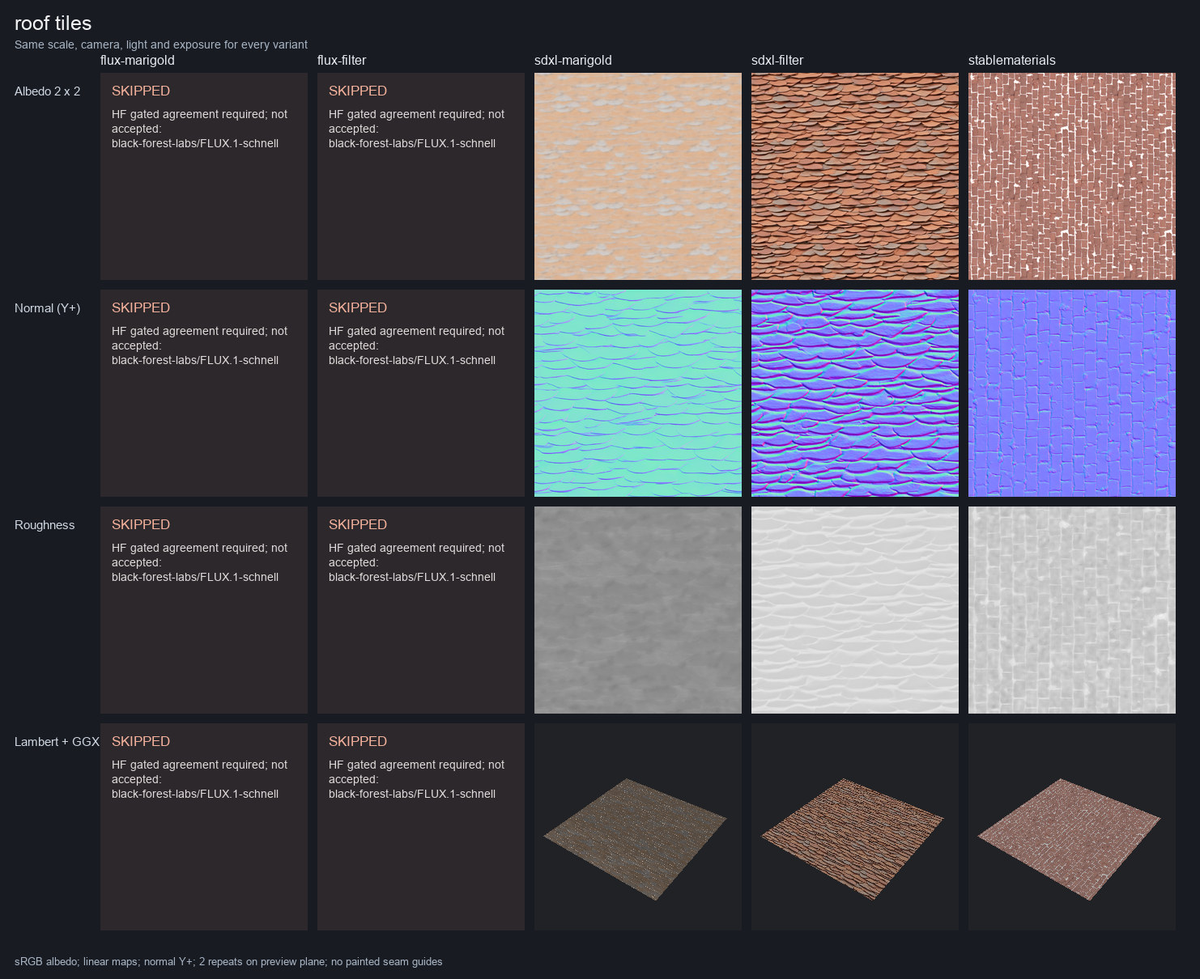
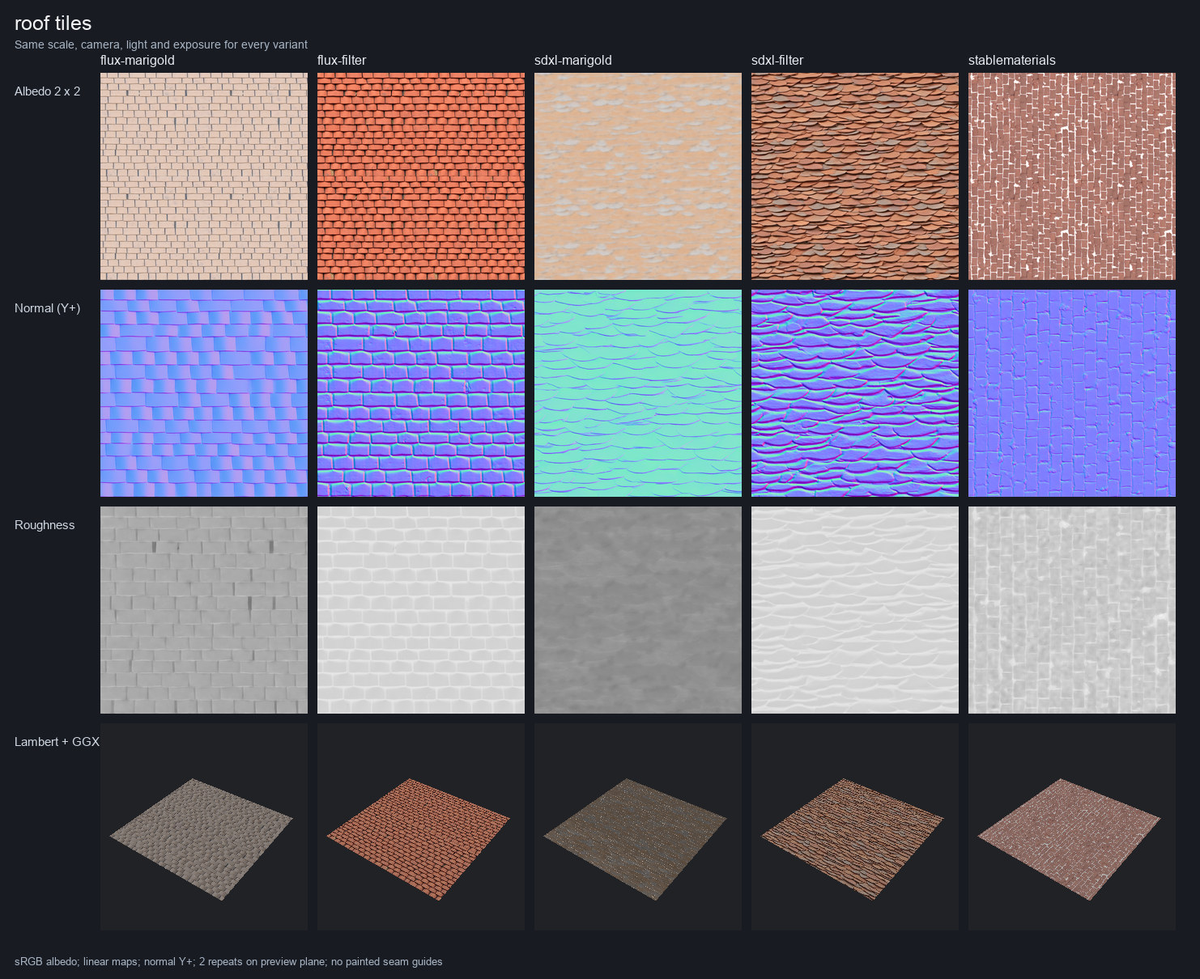
content: record complete FLUX material results

Changed region(s): [[0.0621, 0.0612, 0.4345, 0.9174]]

diff --git a/scripts/content/bakeoff.py b/scripts/content/bakeoff.py
@@ -358,7 +358,7 @@ def run_stage(records, registry, root, stage, base='sdxl'):
     if not pending:
         print(f'{stage}: no pending materials', flush=True)
         return
-    gpu_state(root, stage, 'load', 14000 if stage == 'flux' else 8500)
+    gpu_state(root, stage, 'load', 10000 if stage == 'flux' else 8500)
     before_load = time.monotonic()
     prompt_embeddings, encoding_stats = {}, {}
     if stage == 'flux':

diff --git a/scripts/content/test_run_materials.py b/scripts/content/test_run_materials.py
@@ -11,7 +11,7 @@ import sys
 SCRIPT = Path(__file__).with_name("run-materials.sh")
 
 
-def run_mock(tmp_path, *args, free=4000, missing_decider=False):
+def run_mock(tmp_path, *args, free=1000, missing_decider=False):
     repo = tmp_path / "repo"
     script = repo / "scripts/content/run-materials.sh"
     script.parent.mkdir(parents=True)

diff --git a/reports/content/2026-10-material-bakeoff/README.md b/reports/content/2026-10-material-bakeoff/README.md
@@ -1,12 +1,12 @@
 # Сравнение плиточных PBR-материалов
 
-Готовы **30 материалов, 10 листов и 6 снимков из игры**. Ещё 20 вариантов FLUX пропущены: Hugging Face требует соглашение, оно не принималось. Все 50 записей — `draft`; генератор выбирает пользователь.
+Готовы **50 материалов, 10 листов и 8 снимков из игры**. Ещё два снимка FLUX+Marigold ждут Ryzen (`gq 22af7a408206`). Пропущенных моделей больше нет: соглашение FLUX принял пользователь. Все ресурсы — `draft`; генератор выбирает пользователь.
 
-[Реестр](../../../data/content/registry.jsonl) содержит промпты, negative, сиды, параметры, полные ревизии HF, лицензии, время и пути карт. Генераторы получали только текст. Marigold и фильтр обрабатывали только созданные плитки; пиксели Gothic им не передавались.
+[Реестр](../../../data/content/registry.jsonl) хранит английские промпты, negative, сиды, параметры, полные ревизии HF, лицензии, замеры и пути карт. Генераторы получали только текст. Marigold и фильтр обрабатывали созданные плитки; пиксели Gothic им не передавались.
 
 ## Листы материалов
 
-Пять колонок: FLUX+Marigold, FLUX+фильтр, SDXL+Marigold, SDXL+фильтр, StableMaterials. Четыре строки: плитка цвета 2×2 для просмотра швов, нормаль, шероховатость и плоскость под косым светом. [CPU-превью](../../../scripts/content/material_preview.py) считает Ламберт + GGX в numpy с одинаковыми камерой, светом и экспозицией.
+Пять колонок: FLUX+Marigold, FLUX+фильтр, SDXL+Marigold, SDXL+фильтр, StableMaterials. Четыре строки: цвет 2×2 для просмотра швов, нормаль, шероховатость, плоскость под косым светом. [CPU-превью](../../../scripts/content/material_preview.py) считает Ламберт + GGX в numpy с одинаковыми камерой, светом и экспозицией.
 
 | Материал | Лист |
 |---|---|
@@ -23,67 +23,74 @@
 
 ## Снимки из игры
 
-Шесть вариантов сняты на Ryzen через `gq` (заявка `c35d79720ea8`): **6 игр, 6 завершений с кодом 0**, нужная точка и загрузка материала подтверждены журналами. JPG уменьшены с 1920×1080 до 1280×720. Мостовая видна перед героем, подмена стены — на левом фасаде дома.
+Ryzen, дневной префикс исходного [rf.bench](../../render-features/2026-10-18/tools/rf.bench): `NW_CITY_MERCHANT_SHOP01_FRONT_03`, face 0, игровая камера, полдень, 26 секунд ожидания. Подмена через `OPENGOTHIC_CONTENT`: только `NW_MISC_OLDSTONEPATH_01.TGA` либо `NW_CITY_WALL_03.TGA`, scale=1. Мостовая видна перед героем, стена — на левом фасаде дома.
 
 | Конвейер | Мостовая | Стена |
 |---|---|---|
+| FLUX+Marigold | В очереди | В очереди |
+| FLUX+фильтр | [Снимок](game-cobblestone-flux-filter.jpg) | [Снимок](game-stone-wall-flux-filter.jpg) |
 | SDXL+Marigold | [Снимок](game-cobblestone-sdxl-marigold.jpg) | [Снимок](game-stone-wall-sdxl-marigold.jpg) |
 | SDXL+фильтр | [Снимок](game-cobblestone-sdxl-filter.jpg) | [Снимок](game-stone-wall-sdxl-filter.jpg) |
 | StableMaterials | [Снимок](game-cobblestone-stablematerials.jpg) | [Снимок](game-stone-wall-stablematerials.jpg) |
 
-Четыре позиции FLUX пропущены вместе с моделью из-за gate.
+Готовые 8 игр завершились кодом 0; загрузка материала и нужная точка подтверждены журналами. Заявки `gq`: `c35d79720ea8` (прежние 6), `6622a795be67` (2 FLUX+фильтр). JPG уменьшены с 1920×1080 до 1280×720. Цвет и ORM — DXT1, нормаль — DXT5nm, с mip-уровнями. Игра учитывает нормаль и AO; GGX показан в CPU-превью.
 
-Используется дневной префикс исходного [rf.bench](../../render-features/2026-10-18/tools/rf.bench): `NW_CITY_MERCHANT_SHOP01_FRONT_03`, face 0, игровая камера, полдень и 26 секунд ожидания. Подмена через `OPENGOTHIC_CONTENT`: только `NW_MISC_OLDSTONEPATH_01.TGA` либо только `NW_CITY_WALL_03.TGA`, scale=1. Цвет и ORM — DXT1, нормаль — DXT5nm, все с mip-уровнями. В текущей сборке игры освещение учитывает нормаль и AO; GGX показан в отдельном CPU-превью.
-
-По решению пользователя упаковщик для Z<0 ставит Z=1e-6 и нормализует вектор. **Прижаты 2 из 1 048 576 пикселей нормали стены SDXL+Marigold; у остальных пяти вариантов — 0.** Знак Y меняется под касательный базис движка; X хранится в альфе DDS, Y — в зелёном. Исходные PNG не менялись: SHA-256 всех шести нормалей совпали до и после упаковки.
+При упаковке DDS для Z<0 ставится Z=1e-6 с нормализацией, затем меняется знак Y под базис движка. **Прижаты 2 из 1 048 576 пикселей стены SDXL+Marigold; у остальных девяти вариантов, включая четыре FLUX, — 0.** Исходные PNG сохраняются: четыре нормали FLUX после упаковки совпадают по SHA-256 с оригиналами на dev-ubuntu; шесть прежних проверены до и после своей упаковки.
 
 ## Скорость и VRAM
 
-Замер 19 октября 2026, dev-ubuntu, RTX 3090. Время включает получение карт и сохранение PNG, без скачивания и отдельной загрузки модели. Исходная SDXL-плитка одна на пару способов получения карт; её время учтено в обеих строках сравнения.
+Замер 19 октября 2026, RTX 3090. Время включает текстовое кодирование, карты и сохранение PNG, без скачивания и загрузки моделей. У FLUX и SDXL одна исходная плитка на пару способов получения карт; её время учтено в обеих строках.
 
 | Конвейер | Размер | Медиана, с | Сумма на 10, с | Пик allocated / reserved, MiB |
 |---|---:|---:|---:|---:|
-| FLUX+Marigold | — | — | — | gated |
-| FLUX+фильтр | — | — | — | gated |
+| FLUX+Marigold | 1024 | 13,99 | 144,00 | 6373,9 / 7230,0 |
+| FLUX+фильтр | 1024 | 8,61 | 88,15 | 6373,9 / 7230,0 |
 | SDXL+Marigold | 1024 | 17,07 | 174,85 | 5439,6 / 9714,0 |
 | SDXL+фильтр | 1024 | 11,79 | 118,68 | 5439,6 / 9714,0 |
 | StableMaterials | 512 | 3,34 | 33,78 | 3831,1 / 5416,0 |
 
-Это пики CUDA allocator процесса, без памяти остальных сервисов и полного контекста драйвера. Фактически четыре стадии заняли 208,628 с плюс 16,324 с загрузки. Перед загрузками и всеми 40 инференциями выполнялся `nvidia-smi`; измерения сохранены в реестре.
+Это пики CUDA allocator процесса при получении карт, без памяти остальных сервисов и полного контекста драйвера. Успешные стадии заняли 352,631 с плюс 53,598 с загрузки. Скачивание FLUX отдельно заняло 1698,734 с. Перед загрузками и GPU-инференциями выполнялся `nvidia-smi`.
 
-SDXL: 30 шагов, guidance 7, FP16 и CPU offload. Круговой padding включён в UNet/VAE, включая асимметричный Downsample2D. Marigold: по 4 шага, ensemble 1, 1024 px; нормаль — normals, цвет/шероховатость/металличность — appearance. Высота и AO получены общим фильтром. Фильтр: периодический bandpass яркости σ=2/32 px, нормаль из высоты, AO из впадин, шероховатость по виду материала с вариацией яркости, металличность 0. StableMaterials: родные карты 512 px, 50 DDIM-шагов, guidance 10, родной `tileable=True`; AO добавлен из высоты. Сиды 31000–31009, Marigold 41000–41009. Точные рецепты и константы — в реестре и [скриптах](../../../scripts/content/bakeoff.py).
+FLUX: ревизия `741f7c3ce8b383c54771c7003378a50191e9efe9`, 4 шага, guidance 0, NF4 с double quantization для transformer и T5, BF16, CPU offload. T5 сначала кодирует текст и выгружается; затем загружается transformer. VAE использует circular padding, denoiser через шаг сдвигает латенты на полплитки и возвращает предсказание в исходные координаты. Negative при guidance 0 не используется. Неявная HF-авторизация отключена; явная авторизация применяется только к FLUX.
+
+SDXL: 30 шагов, guidance 7, FP16, CPU offload, circular padding UNet/VAE с асимметричным Downsample2D. Marigold: 4 шага, ensemble 1, 1024 px, circular UNet/VAE. Фильтр: периодический bandpass яркости σ=2/32 px, нормаль и AO из высоты, шероховатость по виду материала с вариацией яркости, металличность 0. StableMaterials: родные карты 512 px, 50 DDIM-шагов, guidance 10, `tileable=True`; AO добавлен из высоты. Сиды 31000–31009, Marigold 41000–41009; точные рецепты — в реестре.
+
+До успешного NF4-прогона были две ошибки разных причин: не хватало `protobuf` (добавлен 5.29.5); int8 после T5 оставил 11 353 MiB при требуемых 14 000 перед transformer. Каждая причина встретилась один раз. Изображения получены следующим, успешным прогоном NF4. После замера резерв для повторного запуска FLUX снижен до 10 000 MiB.
 
 ## Лицензии
 
 | Модель | Лицензия |
 |---|---|
-| [FLUX.1-schnell](https://huggingface.co/black-forest-labs/FLUX.1-schnell) | Apache-2.0; пропущена из-за gate |
+| [FLUX.1-schnell](https://huggingface.co/black-forest-labs/FLUX.1-schnell) | Apache-2.0 |
 | [SDXL base 1.0](https://huggingface.co/stabilityai/stable-diffusion-xl-base-1.0) | CreativeML OpenRAIL++-M |
 | [Marigold normals v1-1](https://huggingface.co/prs-eth/marigold-normals-v1-1) | CreativeML OpenRAIL++-M |
 | [Marigold appearance v1-1](https://huggingface.co/prs-eth/marigold-iid-appearance-v1-1) | CreativeML OpenRAIL++-M |
 | [StableMaterials](https://huggingface.co/gvecchio/StableMaterials) | `openrail` из HF metadata |
 
-[Лицензия SDXL](https://huggingface.co/stabilityai/stable-diffusion-xl-base-1.0/blob/462165984030d82259a11f4367a4eed129e94a7b/LICENSE.md) допускает использование результата с её ограничениями; правообладатель не заявляет прав на результат. Обе карточки Marigold ссылаются на OpenRAIL++-M. StableMaterials прямо называет разработку игр своим применением, но публикует только `openrail`, без полного текста и точного подварианта; именно это записано в реестре.
+[Лицензия SDXL](https://huggingface.co/stabilityai/stable-diffusion-xl-base-1.0/blob/462165984030d82259a11f4367a4eed129e94a7b/LICENSE.md) допускает результат с её ограничениями; правообладатель не заявляет прав на результат. StableMaterials называет разработку игр своим применением, но публикует только `openrail` без точного подварианта; это отражено в реестре.
 
 ## Остановки сервисов
 
-При генерации останавливался только Gemma. «Готов» ниже означает `is-active=active` и HTTP 200 от `/v1/models`. Время — UTC, 19 октября 2026; длительность включает ожидание готовности после старта.
+Время UTC, 19 октября 2026. Окно — от запроса stop до ответа последнего восстанавливаемого юнита. Готовность: `is-active=active`, Gemma HTTP 200, ответ WS-порта Decider; его фактический адрес определяется через `ss` до остановки.
 
-| Стадия | Запрос stop | Stop завершён | Start | Готов | Секунд |
+| Стадия | Юниты | Stop | Start | Готовы | Секунд |
 |---|---|---|---|---|---:|
-| StableMaterials | 04:28:00 | 04:28:01 | 04:28:42 | 04:28:48 | 48 |
-| SDXL | 04:29:20 | 04:29:20 | 04:31:27 | 04:31:33 | 133 |
-| Marigold normals | 04:31:41 | 04:31:41 | 04:32:13 | 04:32:17 | 36 |
-| Marigold appearance | 04:32:20 | 04:32:20 | 04:32:55 | 04:32:59 | 39 |
+| StableMaterials | Gemma | 04:28:00 | 04:28:42 | 04:28:48 | 48 |
+| SDXL | Gemma | 04:29:20 | 04:31:27 | 04:31:33 | 133 |
+| Marigold normals, SDXL | Gemma | 04:31:41 | 04:32:13 | 04:32:17 | 36 |
+| Marigold appearance, SDXL | Gemma | 04:32:20 | 04:32:55 | 04:32:59 | 39 |
+| FLUX, нет protobuf | Gemma + Decider | 05:49:20 | 05:49:36 | 05:50:22 | 62 |
+| FLUX int8, проверка VRAM | Gemma + Decider | 05:51:39 | 05:51:55 | 05:52:39 | 60 |
+| FLUX NF4 | Gemma + Decider | 05:59:55 | 06:01:54 | 06:02:39 | 164 |
+| Marigold normals, FLUX | Gemma | 06:08:21 | 06:08:57 | 06:09:06 | 45 |
+| Marigold appearance, FLUX | Gemma | 06:09:14 | 06:09:52 | 06:10:00 | 46 |
 
-**Все остановленные юниты восстановлены; суммарное окно 256 с из разрешённых 3600 с.** Decider не останавливался, его порт после генерации ответил WebSocket HTTP 101. Для продолжения со снимками новых остановок не требовалось.
+**Все юниты восстановлены.** Сумма окон — 633 с; при отдельном подсчёте каждого юнита — 799 с из разрешённых 3600 с. Перед остановками раннер дожидался отсутствия игры на Mac. Итоговая проверка: Gemma HTTP 200, Decider HTTP 426, оба `active`.
 
 ## Файлы и проверки
 
-Карты: `~/gothic-ai/materials/out/bakeoff/` на dev-ubuntu; копия — `~/.local/share/gothic-ai/content/bakeoff/` на Mac. Пути реестра считаются от каталога `content/`. Получены 180 карт PNG и 10 исходных SDXL-плиток. Весь каталог задачи на dev-ubuntu после генерации занимал 22,31 ГБ из лимита 80 ГБ. В git находятся рецепты и 16 уменьшенных JPG; веса, PNG и DDS — вне git. Исходные кадры: `~/.local/share/gothic-ai/content/bakeoff/captures/20261019T044335Z-19309/captures/<id>/city.png` на Mac и `~/gothic-ai/material-bakeoff/runs/20261019T044335Z-19309/<id>/city.png` на Ryzen.
+Карты: `~/gothic-ai/materials/out/bakeoff/` на dev-ubuntu; копия — `~/.local/share/gothic-ai/content/bakeoff/` на Mac. Получены 300 карт PNG и 20 исходных плиток. Каталог задачи занимает 56,37 ГБ из 80 ГБ. В git — рецепты и уменьшенные JPG; веса, PNG и DDS — вне git.
 
-Реестр: 55 тестов прошли; `registry.py check --content-root ~/.local/share/gothic-ai/content` проверил 50 записей и внешние файлы. На dev-ubuntu завершены 40 инференций, получены 30 полных комплектов; созданы 10 листов 1482×1210. Проверка проекции DDS подтвердила прижим 2/256 синтетических пикселей, нормализацию и сохранность пяти входных PNG. На Ryzen одна заявка `gq` успешно сняла все шесть доступных вариантов; кадры просмотрены, камера и подменяемые поверхности совпадают с заданием.
+Реестр проверил 50 записей и внешние файлы; 30 прежних записей не изменились. Четыре новых нормали совпадают с оригиналами после DDS-упаковки. Все 66 целевых тестов прошли; они охватывают реестр, явную авторизацию, освобождение T5, выбор источника Marigold, восстановление юнитов и изоляцию двух ожидающих захватов. Результаты генерации — 70 успешных диффузионных инференций; текстовые кодирования посчитаны отдельно.
 
-Повторный запуск снимков: `RYZEN_LOCK_WAIT=7200 scripts/content/capture-materials.sh --content-root ~/.local/share/gothic-ai/content --output ~/.local/share/gothic-ai/content/bakeoff/captures`. Генерация и установка собственного venv описаны в [bakeoff.py](../../../scripts/content/bakeoff.py), [run-materials.sh](../../../scripts/content/run-materials.sh) и [requirements.txt](../../../scripts/content/requirements.txt).
-
-У каждого нового RUN своя копия бинарника, сейва и скриптов в `inputs/$RUN/runtime`: параллельная подготовка не меняет входы ожидающей заявки `gq`. Проверка двух таких заявок без игры прошла: 1/1.
+Повторить снимки: `RYZEN_LOCK_WAIT=7200 scripts/content/capture-materials.sh --content-root ~/.local/share/gothic-ai/content --output ~/.local/share/gothic-ai/content/bakeoff/captures`. Каждый RUN сохраняет свои бинарник, сейв и скрипты в `inputs/$RUN/runtime`. Исходные кадры — в `captures/<RUN>/captures/<id>/city.png` на Mac и `~/gothic-ai/material-bakeoff/runs/<RUN>/<id>/city.png` на Ryzen; RUN: `20261019T044335Z-19309`, `20261019T060648Z-5myjQnd1`. Генерация: [bakeoff.py](../../../scripts/content/bakeoff.py), [run-materials.sh](../../../scripts/content/run-materials.sh), [requirements.txt](../../../scripts/content/requirements.txt).

diff --git a/docs/own-content.md b/docs/own-content.md
@@ -9,7 +9,7 @@
 - Голоса NPC в ИИ-разговорах уже свои: Inworld и VoxCPM2 создают голос по описанию из персоны, голоса актёров не клонируются ([MVP.md](MVP.md)). Ванильные реплики скриптов звучат оригинальной озвучкой.
 - Рендер: меш мира и статичные vob читают свои DDS-карты из `OPENGOTHIC_CONTENT/materials/materials.json` (по умолчанию `~/.local/share/gothic-ai/content`). Ключ — имя текстуры Gothic, поля — необязательные `albedo`, `normal`, `orm` (пути относительно `materials/`) и `scale` (множитель UV, по умолчанию 1). Цвет и ORM — DXT1/DXT5, нормаль — DXT5nm (X в альфе, Y в зелёном). Касательный базис строится по производным; готовая нормаль попадает в прежний `R32U`, AO/шероховатость/металличность — в дополнительный `RGBA8`, который выделяется только при включённых картах. Освещение остаётся ламбертовым, учитывает нормаль и AO; шероховатость и металличность пока только сохраняются, бликов нет. Без записи материал прежний; убрать каталог или задать `OPENGOTHIC_CONTENT=` — полностью прежний путь рендера. Вода, небо, forward-материалы, анимация текстур и карты скелетных/морф-моделей не поддерживаются этим путём. Проверка — [синтетическая фикстура](../scripts/content/test-material.py) и [стенд рендера](../reports/render-features/2026-10-18/tools/rf.bench) на Vulkan и Metal; DDS фикстуры создаются локально и в git не хранятся.
 - Реестр своих материалов — `data/content/registry.jsonl`: 50 черновых рецептов сравнения (10 поверхностей × 5 конвейеров), закреплённые ревизии HF, лицензии, английские промпты, сиды, параметры и пути карт. `scripts/content/registry.py check [--content-root <каталог контента>]` проверяет схему, уникальность и внешние файлы; `scripts/content/test_registry.py` — контракт реестра. `scripts/content/bakeoff.py` генерирует только по тексту; Marigold и CPU-фильтр получают только созданную плитку. Бинарники сравнения — вне git, в `~/gothic-ai/materials/out/` на dev-ubuntu и `~/.local/share/gothic-ai/content/bakeoff/` на Mac; `material_preview.py` делает уменьшенные JPG с повтором 2×2 и CPU-превью Lambert + GGX. `pack_materials.py` и `capture-materials.sh` упаковывают DDS и снимают город днём через исходный раннер `rf.bench` на Ryzen с `gq`. Перед очередью каждый запуск сохраняет свою копию бинарника, сейва и скриптов в `inputs/$RUN/runtime`; ожидающие заявки не перезаписывают входы друг друга. Это проверяет `scripts/content/test_capture_materials.py` без SSH и игры; ничего не включается по умолчанию.
-- [Сравнение генераторов материалов](../reports/content/2026-10-material-bakeoff/README.md): готовы 30 комплектов карт, 10 JPG-листов и 6 игровых снимков города днём на Ryzen через `gq`; 20 рецептов FLUX пропущены из-за HF gate, все 50 ресурсов `draft`. При упаковке DDS отрицательный Z прижимается к 1e-6 с нормализацией; затронуты 2 пикселя стены Marigold, исходные PNG не меняются. Выбор генератора и принятие ресурсов остаются за пользователем.
+- [Сравнение генераторов материалов](../reports/content/2026-10-material-bakeoff/README.md): готовы все 50 комплектов карт, 10 JPG-листов и 8 игровых снимков города днём на Ryzen через `gq`; ещё 2 снимка FLUX+Marigold в очереди. Все ресурсы `draft`, генератор выбирает пользователь. При упаковке DDS отрицательный Z прижимается к 1e-6 с нормализацией: затронуты 2 пикселя стены SDXL+Marigold, у четырёх вариантов FLUX 0; исходные PNG не меняются.
 - Адаптер FLUX.1-schnell: 1024×1024, 4 шага, guidance 0, NF4 с double quantization и BF16 для T5 и transformer. T5 сначала считает текстовые эмбеддинги и освобождается, затем загружается transformer; VAE использует circular padding, denoiser — периодический сдвиг латентов. После принятия соглашения пользователем `bakeoff.py enable-flux` включает только 20 рецептов FLUX; `run-materials.sh flux`, затем `normals --base flux` и `appearance --base flux` получают карты. Неявная HF-авторизация отключена; учётные данные из внешнего файла явно передаются только загрузчикам FLUX. Перед остановкой юнита раннер определяет фактический адрес порта и проверяет ответ; тот же адрес проверяется после восстановления.
 - Офлайн-перепись `scripts/content-textures.sh` считает площадь, масштаб UV и плиточность текстур меша и статичных vob четырёх миров без запуска игры; [CSV и проверка](../reports/content/2026-10-world-textures/README.md).
 - Перепись сессии: `OPENGOTHIC_CENSUS=<путь к json>` записывает открытые оригинальные файлы по видам, источникам и числу открытий, отдельно HD-подмены; JSON сохраняется при выходе и Marvin `census`, сводка — `python3 scripts/content-census.py <json...>`; для Ryzen задайте абсолютный путь внутри каталога вывода `BENCH_HOST=ryzen scripts/bench.sh smoke <out>` (без переменной учёт выключен).
@@ -17,6 +17,8 @@
 Ограничения сейчас: без установленной Gothic 2 игра не запускается.
 
 ## План и журнал
+
+**2026-10-19 — FLUX в сравнении.** После принятия соглашения пользователем получены ещё 20 материалов FLUX (10 плиток × Marigold/фильтр): 1024², 4 шага, guidance 0, NF4 transformer/T5 с BF16 и circular VAE/сдвигом латентов. Готовы все 50 ресурсов и 10 листов, 30 прежних записей сохранены. Добавлены 2 игровых JPG FLUX+фильтр, ещё 2 FLUX+Marigold ждут `gq`. Реестр проверил все внешние файлы; 66 тестов прошли. Две ошибки подготовки разных причин (нет protobuf; int8 удерживал VRAM после T5) исправлены. Все Gemma/Decider восстановлены: суммарно 633 с окон, 799 с по юнитам из лимита 3600 с. [Замеры, лицензии и остановки](../reports/content/2026-10-material-bakeoff/README.md).
 
 **2026-10-19 — адаптер FLUX.** После принятия соглашения пользователем добавлены явная авторизация только для FLUX, двухфазная загрузка NF4 T5/transformer и выбор исходной плитки FLUX для Marigold. Проверка восстановления Decider использует его фактический адрес прослушивания вместо localhost.
 

diff --git a/docs/README.md b/docs/README.md
@@ -113,7 +113,7 @@
 | Навигация NPC: обучаемая — пока только на стенде; популяция N NPC, эпизоды без перезагрузки, выборка и награды | `common/nav*`, `common/game/nav*`; `scripts/nav_rl.py` — пары, сбор, финальный замер, проверки | `navdemos population`: `sample/argmax`, `RECORD=0` выключает запись; `navdemos physics cv` закрепляет CV для ученика и учителя (`nav_rl.py` по умолчанию); обычная игра не включает режим | [`navigation.md`](navigation.md) |
 | HD-текстуры | `common/resources.cpp` | работают, если есть каталог `OPENGOTHIC_TEXTURES` | — |
 | Свои материалы мира: нормали и ORM, Ламберт с AO | `common/resources.cpp`, `common/graphics/material.*`, `drawbuckets.*`, `renderer.*`, `shader/materials/`, `shader/lighting/`; фикстура `scripts/content/test-material.py` | убрать каталог контента или `OPENGOTHIC_CONTENT=` | [`own-content.md`](own-content.md#как-работает-сейчас) |
-| Генерация и сравнение своих PBR-материалов (офлайн) | `scripts/content/bakeoff.py` (FLUX NF4, SDXL, Marigold), `stable_materials_adapter.py`, `run-materials.sh`, `material_preview.py`, `pack_materials.py`, `capture-materials.sh`; `data/content/registry.jsonl`, `registry.py` | только явный запуск; `enable-flux` после принятия соглашения пользователем; материалы `draft`, по умолчанию не подключены | [`own-content.md`](own-content.md#как-работает-сейчас), [сравнение: 30 материалов, 6 игровых снимков](../reports/content/2026-10-material-bakeoff/README.md) |
+| Генерация и сравнение своих PBR-материалов (офлайн) | `scripts/content/bakeoff.py` (FLUX NF4, SDXL, Marigold), `stable_materials_adapter.py`, `run-materials.sh`, `material_preview.py`, `pack_materials.py`, `capture-materials.sh`; `data/content/registry.jsonl`, `registry.py` | только явный запуск; `enable-flux` после принятия соглашения пользователем; материалы `draft`, по умолчанию не подключены | [`own-content.md`](own-content.md#как-работает-сейчас), [сравнение: 50 материалов, 8 игровых снимков](../reports/content/2026-10-material-bakeoff/README.md) |
 | Перепись ресурсов сессии (инструмент) | `common/contentcensus.*`, наблюдатель VFS; сводка `scripts/content-census.py` | `OPENGOTHIC_CENSUS=<путь к json>`, запись при выходе и Marvin `census`; `scripts/test_content_census.py`, бенч `smoke` | [`own-content.md`](own-content.md) |
 | Тестовый стенд | `common/testbench.*`, `OPENGOTHIC_BENCH*` | — | [`scripts/bench/README.md`](../scripts/bench/README.md) |
 

diff --git a/docs/features.md b/docs/features.md
@@ -204,4 +204,4 @@ PR, который добавляет фичу или выключатель, д
 | Три игры e2e на Ryzen: слоты, отдельные порты и окна | sharing требует `--display --display-shared`; старый `--display` и `--display-exclusive` занимают всё окно; ёмкость задаёт профиль `gq` | `scripts/gq.py`, `scripts/ryzen.sh`, `scripts/e2e.sh` | `scripts/tests/test_gq.py`, `test_ryzen.py`; e2e `orders`, `fight_reactions_bandits`, `calm` ([отчёт](../reports/compute/2026-10-19-ryzen-three-windows/README.md)) | [compute.md](compute.md#очередь-gq), [ryzen.md](ryzen.md) |
 | Начальная позиция X11-окна | без `TEMPEST_WINDOW_POS=x,y` — прежнее размещение | `lib/Tempest/Engine/system/api/x11api.cpp`, `scripts/ryzen.sh` | e2e трёх окон на Ryzen, `test_ryzen.py` | [ryzen.md](ryzen.md) |
 | Средний FPS представленных кадров в логе раз в 10 с | `OPENGOTHIC_FPS_LOG` выключен по умолчанию; нужна сборка с `OPENGOTHIC_ENABLE_APP_CADENCE=ON` | `common/appcadence.cpp` | одиночные и тройные e2e на Ryzen | [ryzen.md](ryzen.md) |
-| Сравнение генераторов PBR-материалов по тексту и реестр собственных ресурсов | только явный запуск `scripts/content/bakeoff.py` / `run-materials.sh`; `enable-flux` после принятия соглашения пользователем; статус `draft` | `scripts/content/`, `data/content/registry.jsonl` | `registry.py check` (50), `test_registry.py` (55), `test_flux.py`, `test_run_materials.py`, `test_capture_materials.py`; 40 инференций dev-ubuntu; 6 снимков `rf.bench` на Ryzen через `gq` | [own-content.md](own-content.md#как-работает-сейчас) |
+| Сравнение генераторов PBR-материалов по тексту и реестр собственных ресурсов | только явный запуск `scripts/content/bakeoff.py` / `run-materials.sh`; `enable-flux` после принятия соглашения пользователем; статус `draft` | `scripts/content/`, `data/content/registry.jsonl` | `registry.py check` (50), `test_registry.py` (55), `test_flux.py`, `test_run_materials.py`, `test_capture_materials.py`; 70 инференций dev-ubuntu; 8 снимков `rf.bench` на Ryzen через `gq`, ещё 2 в очереди | [own-content.md](own-content.md#как-работает-сейчас) |
